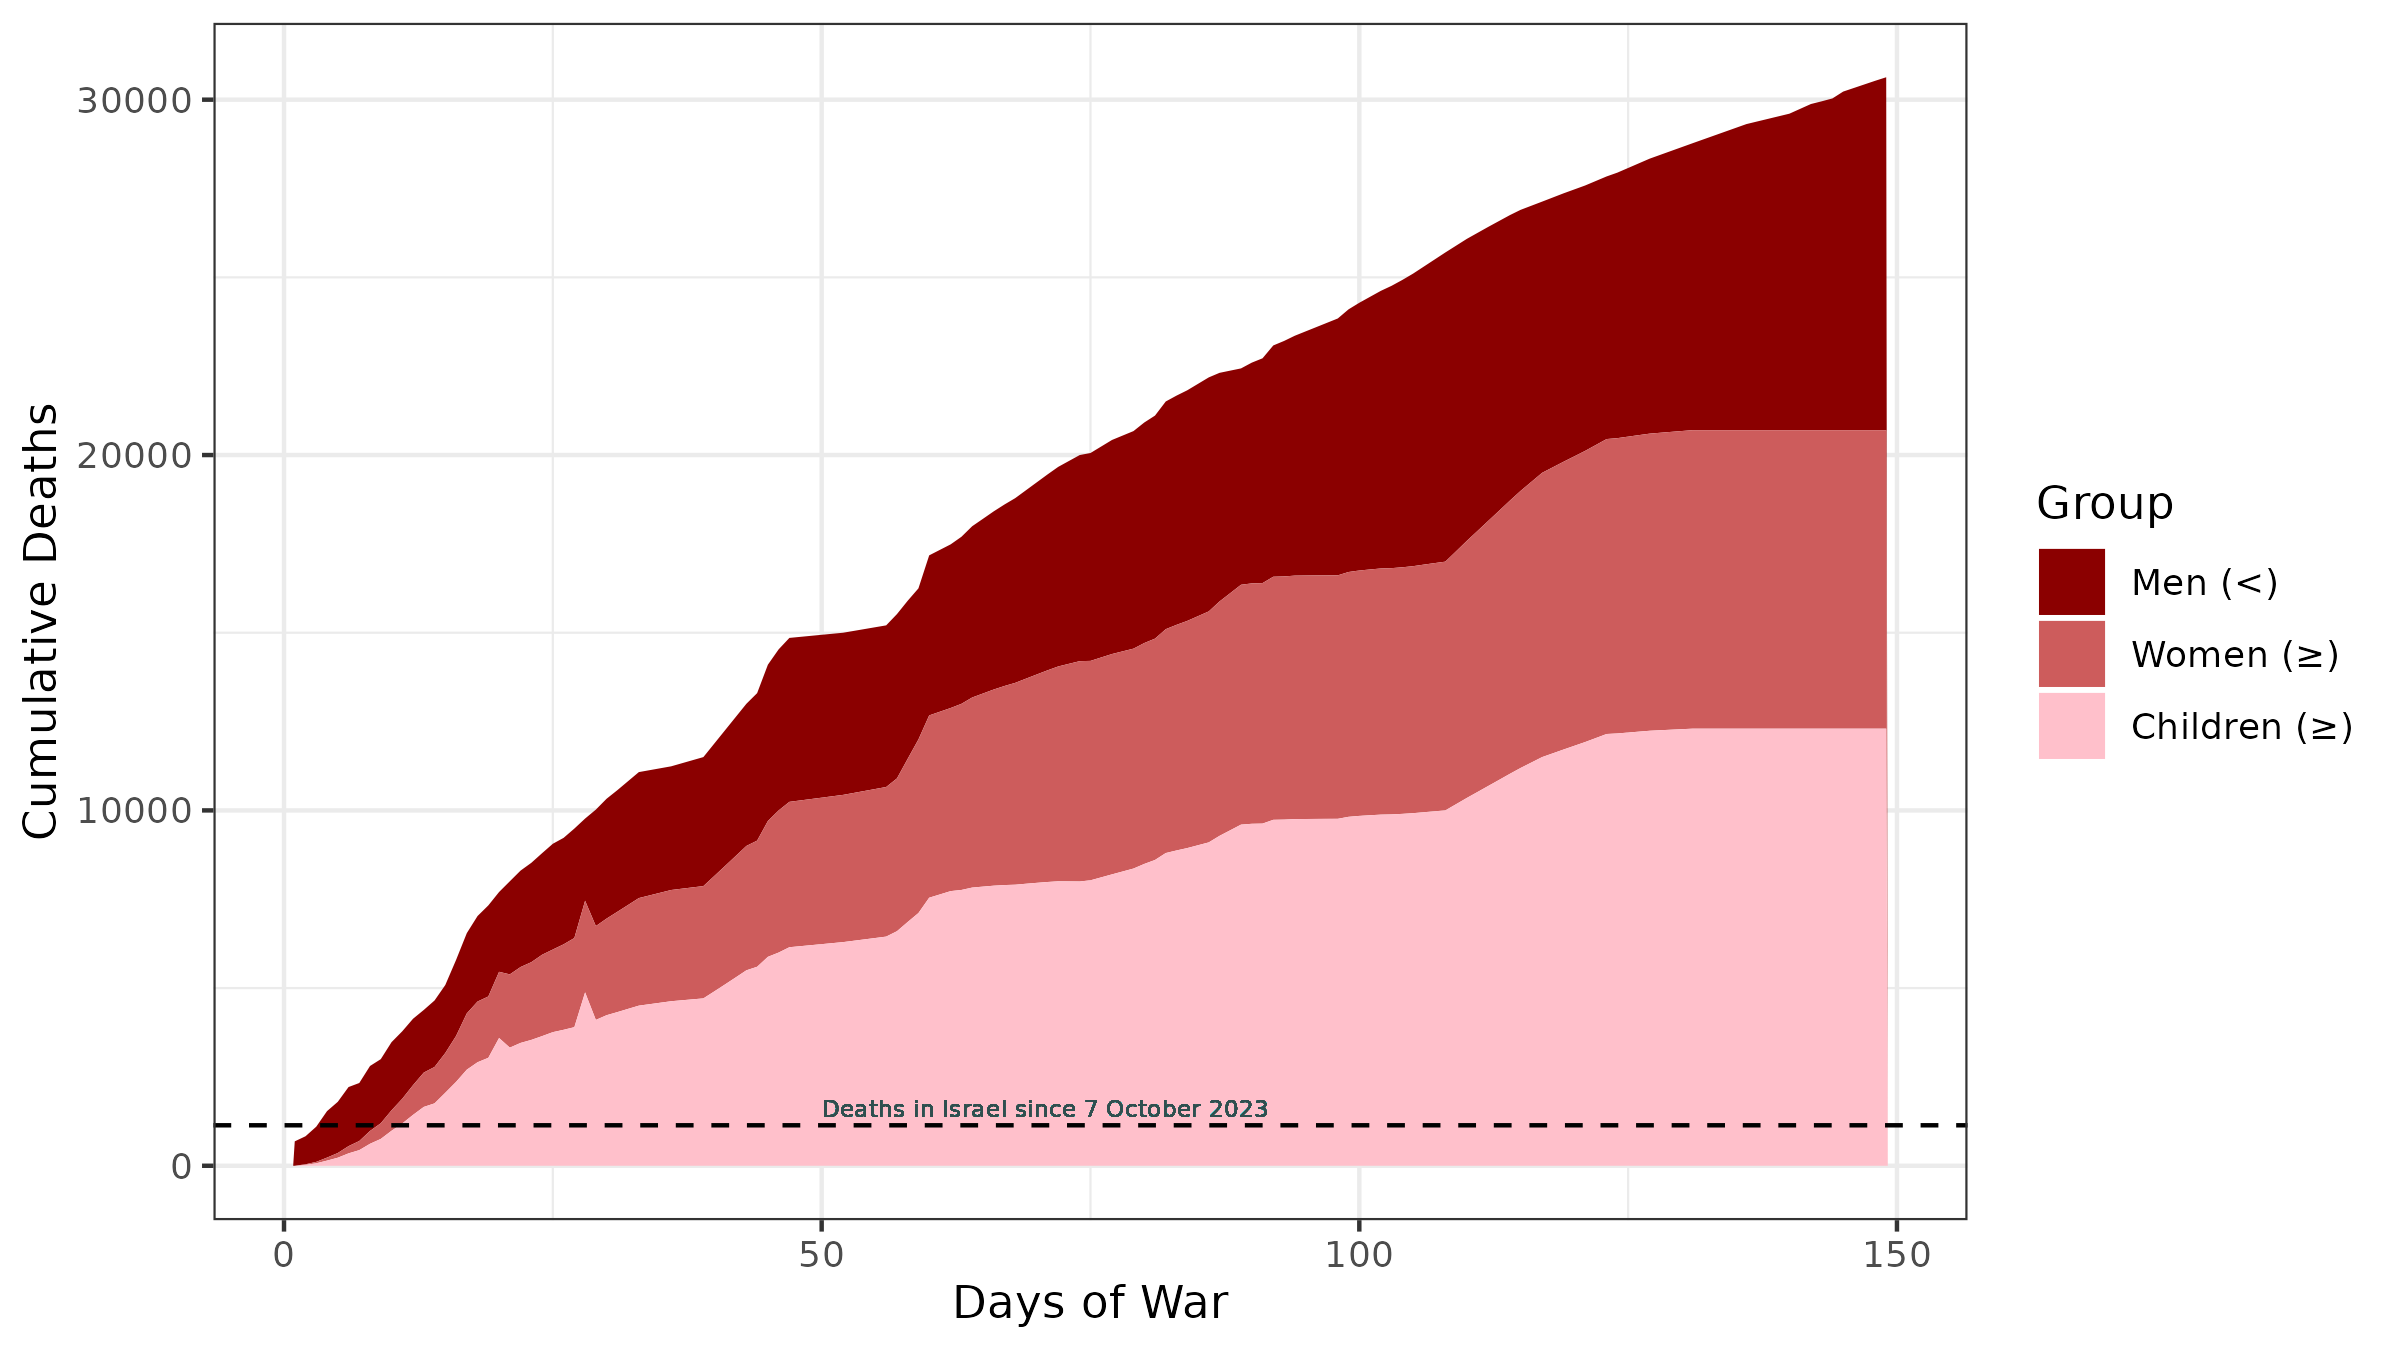
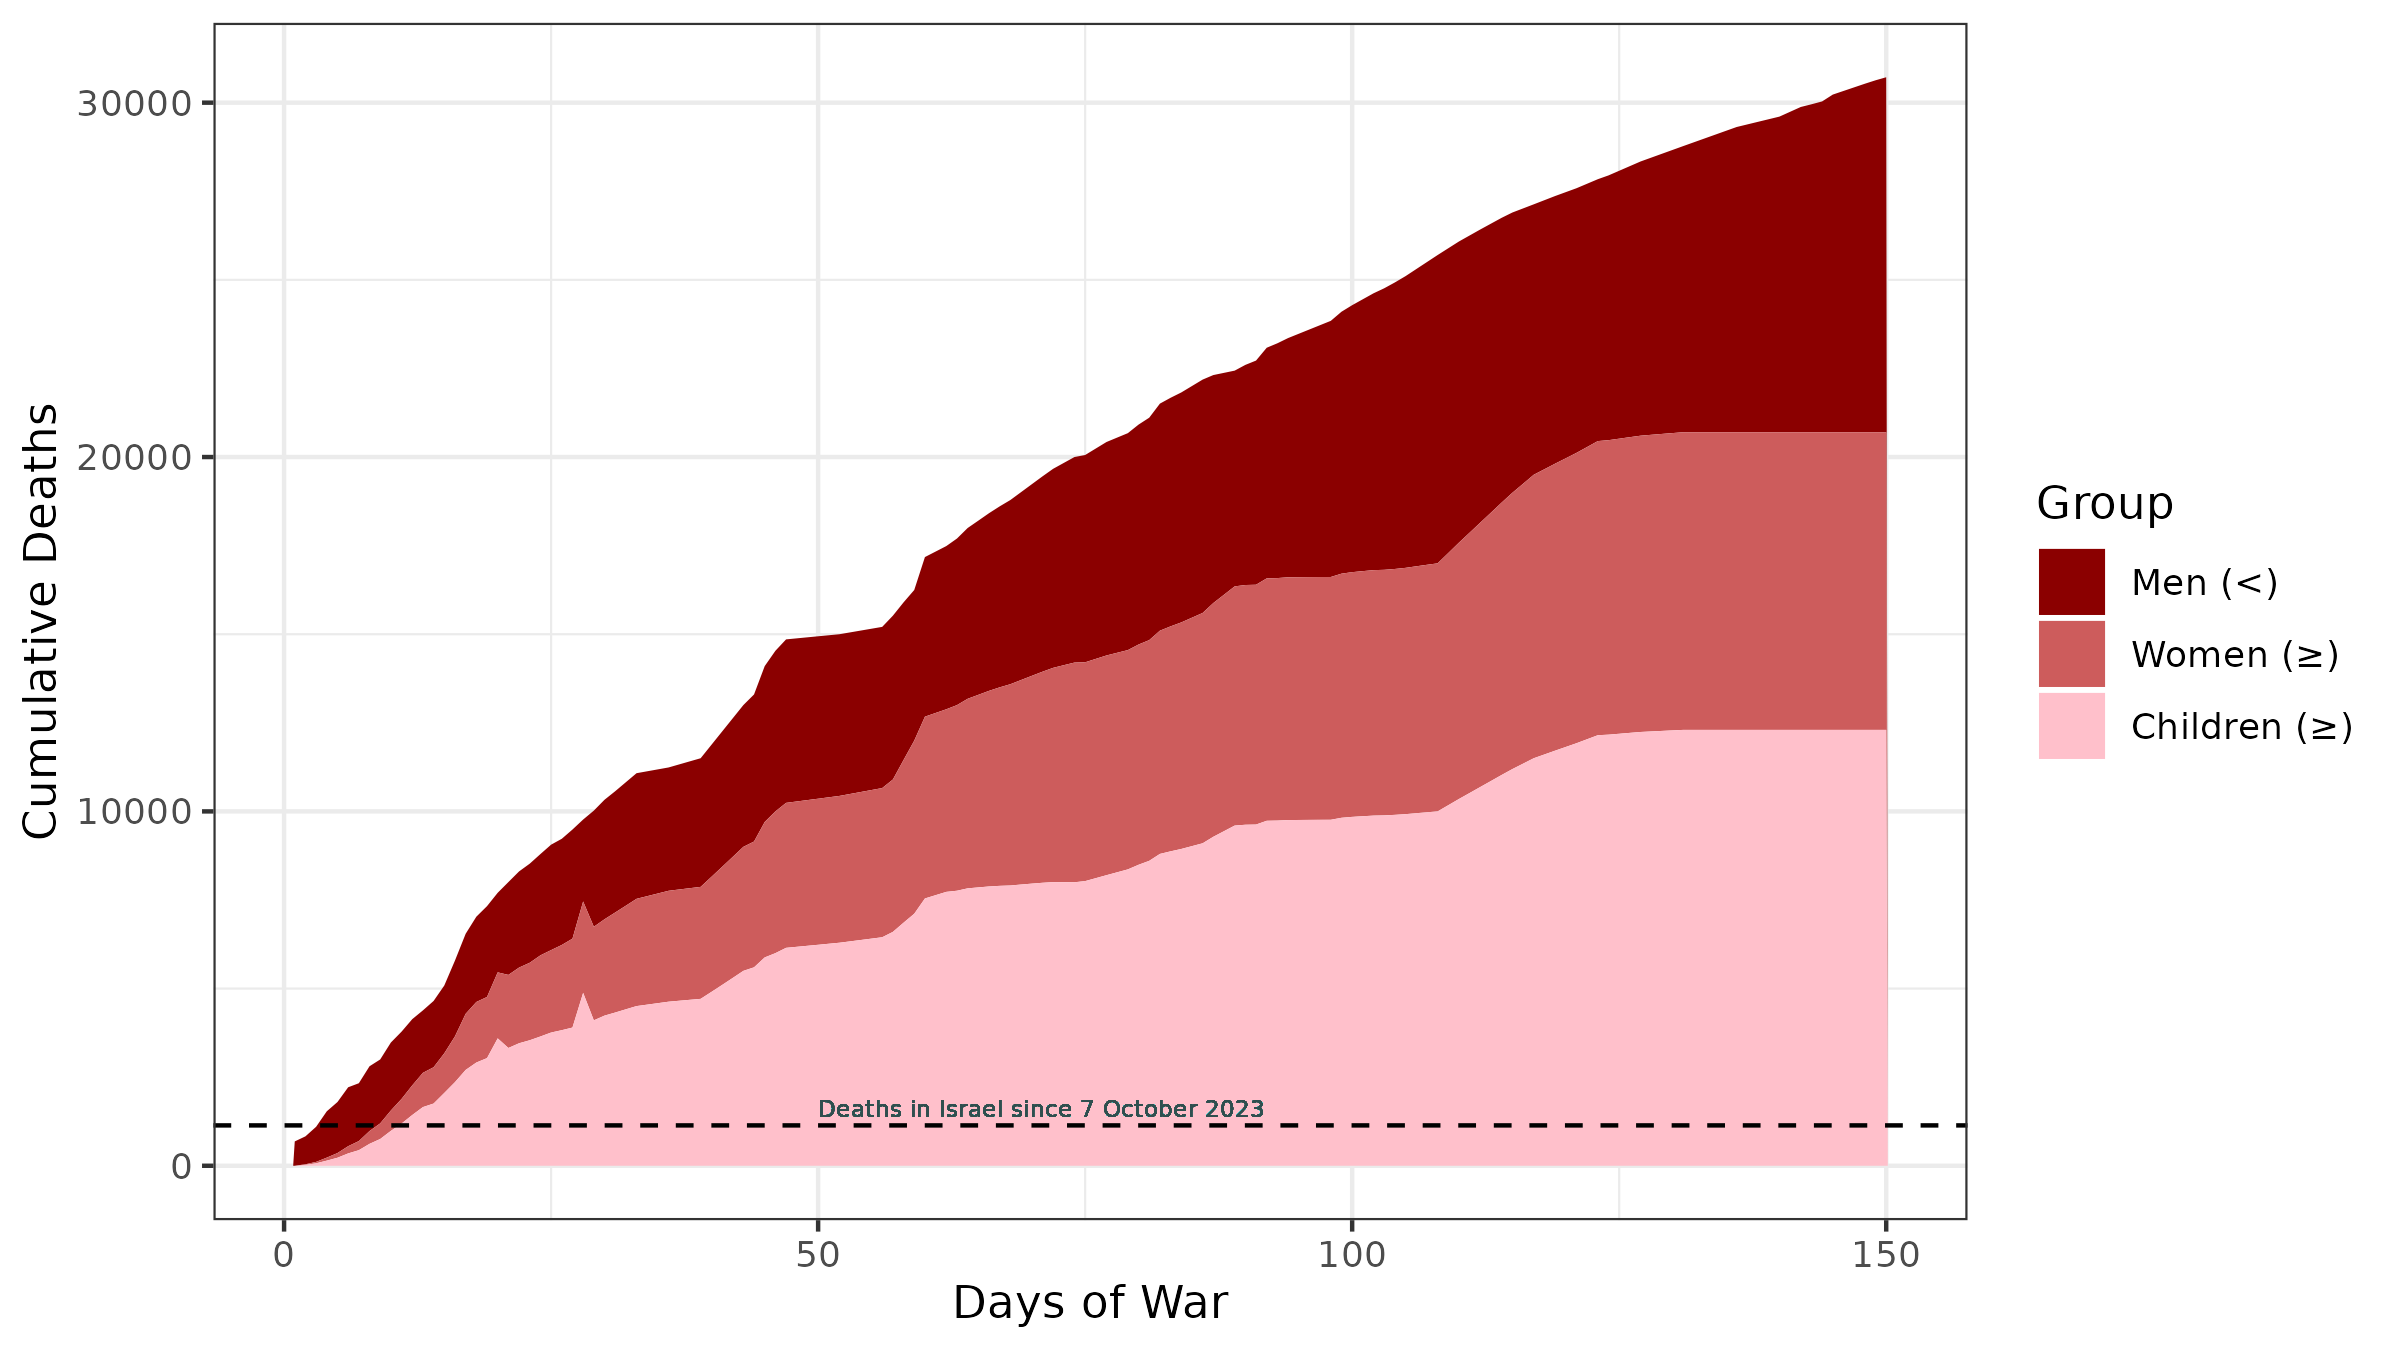
Updated 06 March 2024 data

diff --git a/README.md b/README.md
@@ -1,5 +1,5 @@
 Tracking mortality in Palestine following Israel's assault against Gaza (2023-2024). 
-*Last updated 5 March 2024*
+*Last updated 6 March 2024*
 
 # Gaza Conflict Tracker
 
